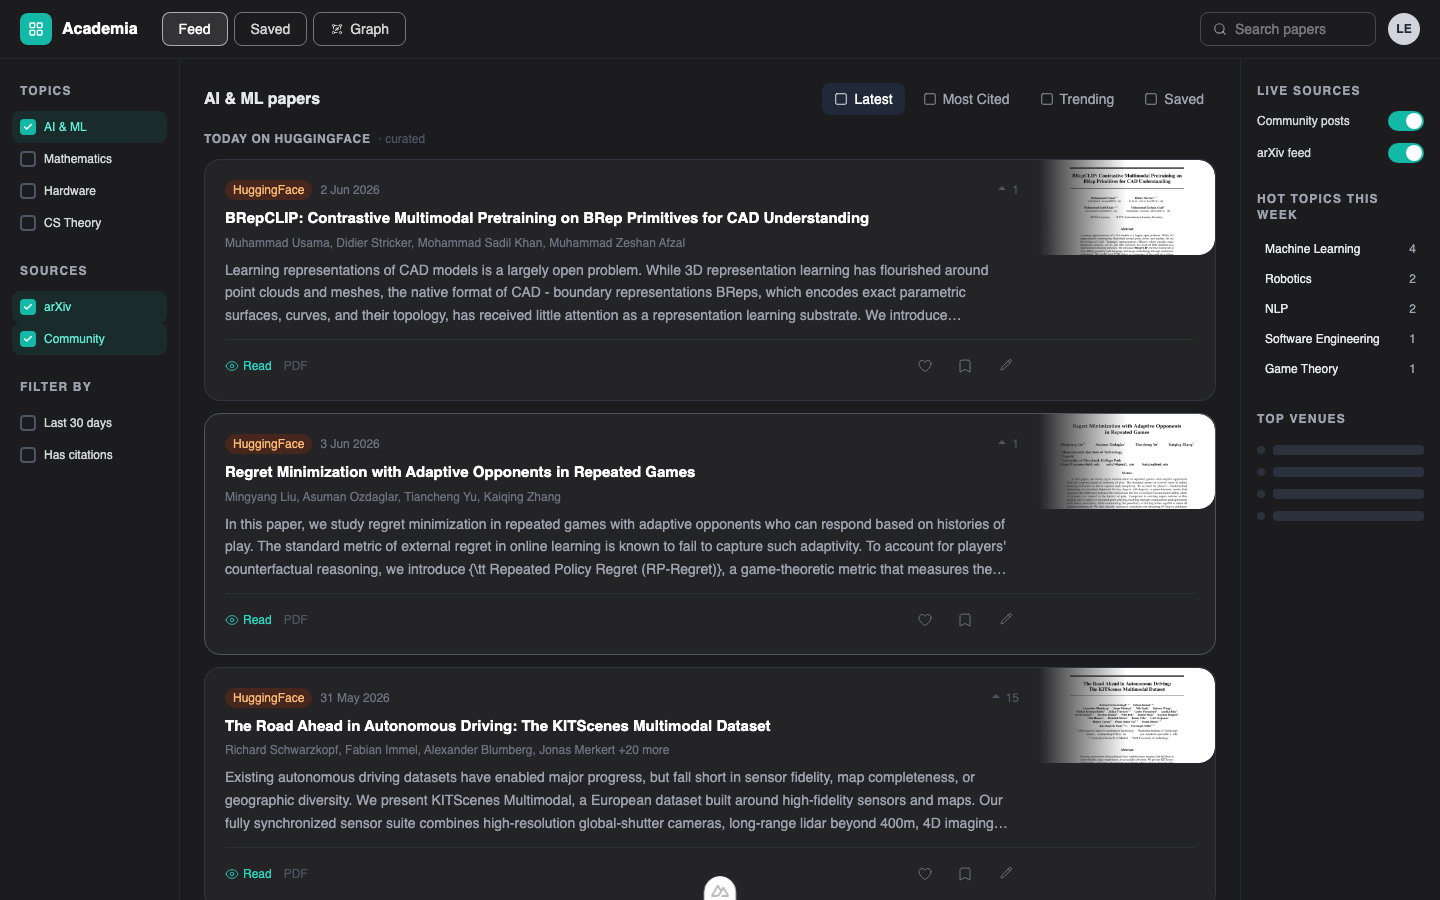
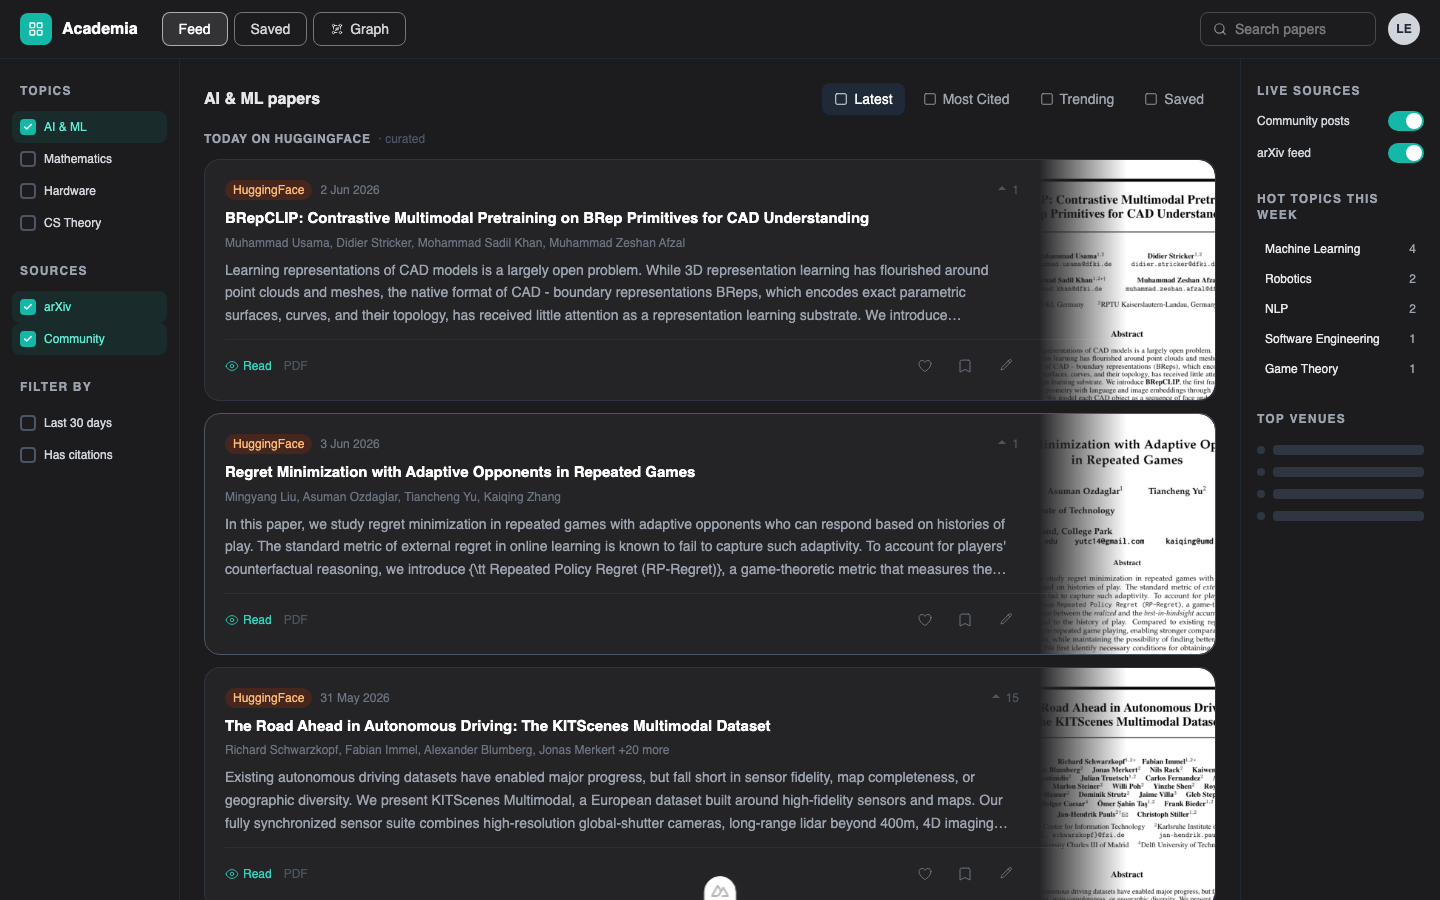
fix: thumbnails fill full card height (add h-full — absolute img ignored bottom-0); refresh README screenshot

Changed region(s): [[0.7188, 0.1867, 0.8438, 1.0]]

diff --git a/client/pages/dashboard/index.vue b/client/pages/dashboard/index.vue
@@ -153,7 +153,7 @@
               v-if="i.thumbnail"
               :src="i.thumbnail"
               :alt="i.title"
-              class="hidden tablet:block absolute top-0 right-0 bottom-0 w-44 object-cover pointer-events-none rounded-r-2xl"
+              class="hidden tablet:block absolute top-0 right-0 h-full w-44 object-cover pointer-events-none rounded-r-2xl"
               style="mask-image: linear-gradient(to right, transparent, black 50%); -webkit-mask-image: linear-gradient(to right, transparent, black 50%)"
               
               loading="lazy"
@@ -234,7 +234,7 @@
               v-if="paper.thumbnail"
               :src="paper.thumbnail"
               :alt="paper.title"
-              class="hidden tablet:block absolute top-0 right-0 bottom-0 w-44 object-cover pointer-events-none rounded-r-2xl"
+              class="hidden tablet:block absolute top-0 right-0 h-full w-44 object-cover pointer-events-none rounded-r-2xl"
               style="mask-image: linear-gradient(to right, transparent, black 50%); -webkit-mask-image: linear-gradient(to right, transparent, black 50%)"
               
               loading="lazy"
